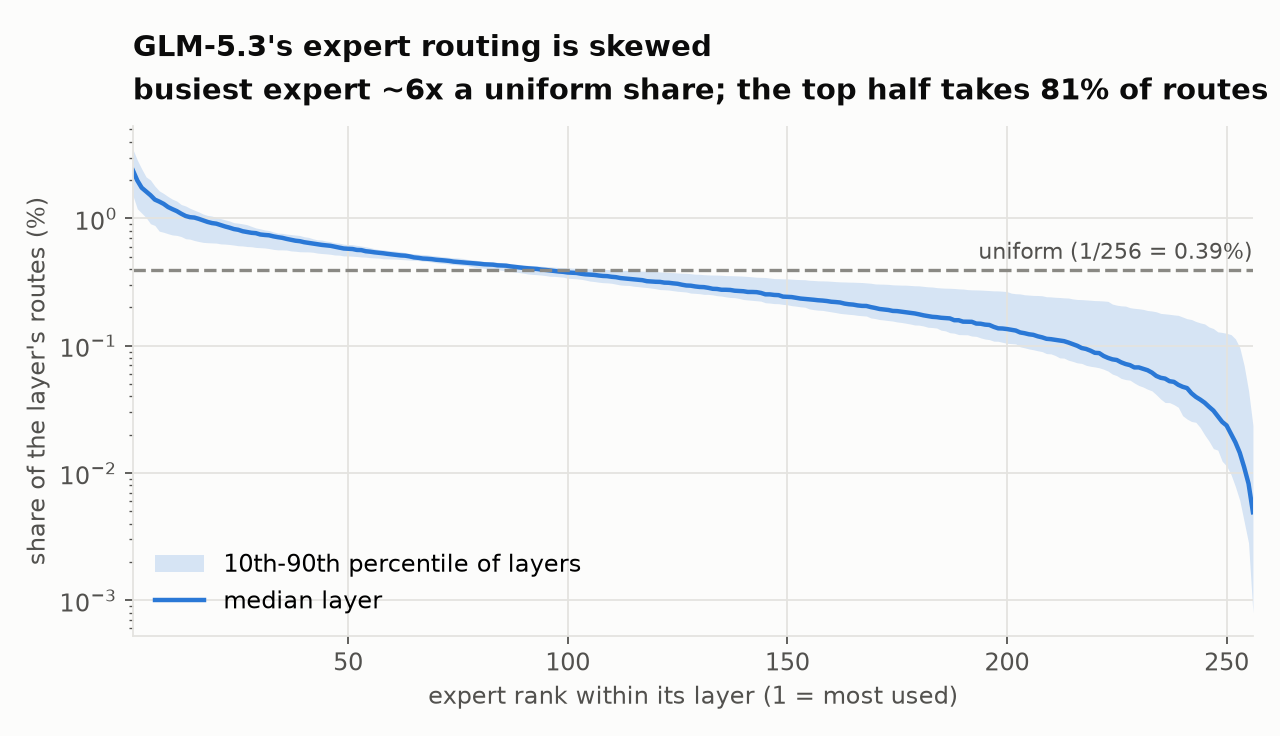
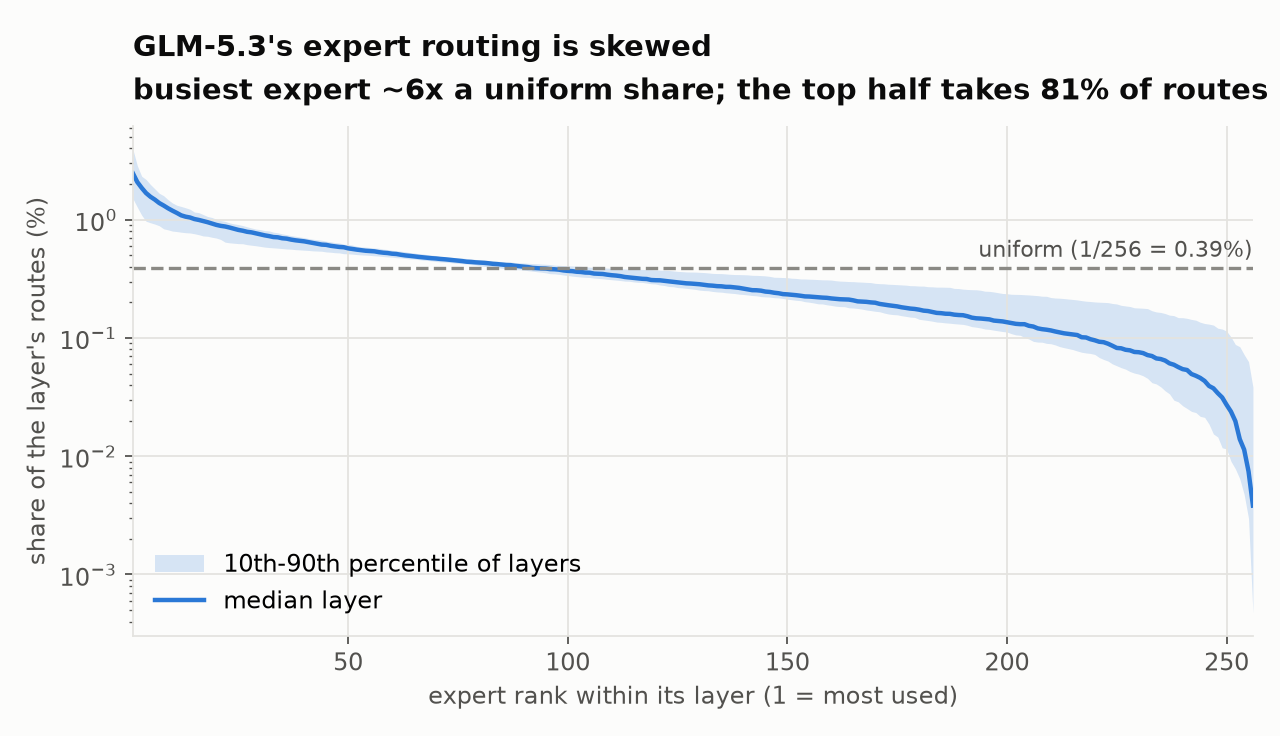
GLM-5.3: re-measured on MiMo's agentic tasks, GLM vs MiMo breakdown
Both models now measured on the same agentic coding tasks and harness:
GLM 28.1 ms/step (~124 tok/s) vs MiMo 16.9 (~201) at matched acceptance.
The old greedy bench looped (6.5-7 accepted/step); its absolute numbers are
dropped and its per-change deltas labelled as greedy-bench measurements.
Routing figures redrawn from the agentic capture; new: the rebuilt profile,
GLM vs MiMo per-step breakdown (the MoE costs the same), DCP off at 250K,
the fp8_ds_mla prefix-caching fix, GSM8K pooled over four runs.

diff --git a/glm/README.md b/glm/README.md
@@ -6,17 +6,41 @@ decode step verifies 8 tokens), **400K context**. The ideas are the ones in the
 [main write-up](../README.md); this page is about what was different for GLM and
 what it took. It gets updated as work lands.
 
-| GLM-5.3, c=1, MTP7, 400K | decode step* | tok/s* |
+Both models measured the same way, on the agentic coding tasks MiMo's routing
+profile was built from (see [How it's measured](#how-its-measured)):
+
+| one user, same tasks and harness | decode step* | decode tok/s |
 | --- | ---: | ---: |
-| where this round started | 46.6 ms | ~129 |
-| now | **36.2 ms** | **~166** |
+| **GLM-5.3** W4A16, MTP7, DCP4, 400K | **28.1 ms** | **~124** |
+| MiMo-V2.6 MXFP4, DFlash k=7, 250K | 16.9 ms | ~201 |
 
-\*On a greedy bench at a matched 6 accepted tokens per step (see
-[Measuring it](#measuring-it-acceptance-gets-in-the-way)). Real Claude-Code-style
-traffic at temperature 1 accepts fewer tokens, so its tok/s is lower; the step
-time saving carries over.
+\*Fitted at a matched 3.5 accepted tokens per step and 8K context; both models
+accept 3.4-3.5 on these tasks.
 
-![decode step across the changes](figs/glm-ladder.png)
+## How it's measured
+
+Everything is measured on the same data for both models: the 16 agentic coding
+tasks (22 turns, a few hundred requests) that MiMo's routing profile was
+captured from. They're replayed through that capture's agent loop, with the
+same system prompt, tools and chat endpoint, at the models' own sampling
+(temperature 1.0, top_p 0.95). Each request's decode time, verify steps and
+accepted tokens come from the server's own counters, and step time is fitted
+against accepted tokens and context so the two models compare at the same
+point. Requests that loop to the output cap are dropped (MiMo 3 of 46, GLM
+none).
+
+**Earlier GLM numbers used a different bench, and its absolute numbers were
+wrong.** It was greedy decoding on raw completion prompts, and that text loops:
+MTP accepted 6.5-7 of 8 drafts per step, against 3.5 on the agentic tasks and
+the 2-3 you see serving Claude Code. It also routed differently: the hot set
+served 74% of its expert reads against 90% on real traffic. So its step times
+(46.6 -> 36.2 ms, "~166 tok/s") don't describe real serving, and neither did
+the "step time rises ~1.8 ms per accepted token" effect it showed. On the
+agentic tasks that effect is gone (+0.1 ms per token). Each change was still
+A/B'd against its own control on that bench, so the deltas below are real but
+were measured on looping text; they're marked *(greedy bench)*.
+
+![each change, on the greedy bench](figs/glm-ladder.png)
 
 ## How GLM differs from MiMo
 
@@ -30,17 +54,42 @@ time saving carries over.
   picks 2,048 past tokens per query and only those are read. At 400K context the
   KV cache is ~20 GiB per GPU when every GPU holds a full copy.
 - **A shared expert** runs alongside the routed ones, in bf16.
+- **A sequential drafter.** MTP7 runs its draft layer seven times, one token
+  after another; MiMo's DFlash drafts all seven in one pass.
+
+## Why MiMo is faster, on the same tasks
+
+![GLM vs MiMo per decode step](figs/glm-vs-mimo.png)
+
+Profiled on the agentic tasks, four windows per model. **The MoE costs the same
+on both** (8.2 vs 8.9 ms per step): GLM's experts are larger, but it touches
+about as many of them per step (~650 hot and ~130 cold per GPU on both), and
+at equal expert counts its INT4 kernel is within 2-7% of MiMo's MXFP4 one.
+GLM's extra ~9 ms is everything around the MoE:
+- **the drafter, +2.8 ms**: seven sequential passes against one, each reading
+  the 155K-token output layer;
+- **dense GEMMs, +2.1 ms**: GLM's MLA and indexer projections and its shared
+  expert, all bf16;
+- **small unfused kernels, +1.8 ms**: hundreds per step from the MLA, sparse
+  attention and DCP code paths (zero-fills, concats, casts, DCP's attention
+  merge), where MiMo has three fused norms;
+- **DCP's collectives, +1.7 ms**, and **attention plus the indexer, +1.4 ms**.
+
+Roughly half of that is structural (the drafter, the extra attention
+machinery); the other half is kernels running below what the hardware allows,
+which is where the work goes next.
 
 ## 1. Routing, and how much the HBM budget buys
 
-GLM's routing is skewed but flatter than you might hope: the busiest expert in a
-layer gets ~6x a uniform share, and the top half of experts takes ~81% of routes.
+Routing statistics are from the agentic tasks, ranked on some requests and
+measured on held-out ones. GLM's routing is skewed but flatter than you might
+hope: the busiest expert in a layer gets ~6x a uniform share, and the top half
+of experts takes ~81% of routes.
 
 ![expert skew](figs/glm-expert-skew.png)
 
-Ranked on some requests and measured on others, keeping each layer's most-used
-experts in HBM serves 77% of routes at the starting budget and 91% once the
-budget grows (section 4):
+Keeping each layer's most-used experts in HBM serves 72% of routes at the
+starting budget and 86% once DCP4 grows it (section 4):
 
 ![HBM coverage](figs/glm-hbm-coverage.png)
 
@@ -61,9 +110,9 @@ came straight from this:
 ## 2. Keeping the four GPUs in step: replicas
 
 After each MoE layer the four GPUs sync, so every layer costs as much as its
-busiest GPU. With GLM's cold load that was the biggest single problem: **~8 ms of
-every step was GPUs waiting** for the one with the most cold experts, and which
-GPU that was changed from layer to layer.
+busiest GPU, and which GPU is busiest changes from layer to layer. On held-out
+agentic steps, the busiest GPU reads 93 more cold experts per step than the
+average one.
 
 The fix is the same as for MiMo: keep spare copies of busy cold experts in
 another GPU's Grace memory, and at each step send an active cold expert to
@@ -75,9 +124,25 @@ work), not a real shortage.
 
 ![replicas](figs/glm-replicas.png)
 
-On held-out steps the busiest GPU's cold load drops from 128 above the average
-to 49 above it. Measured: **-4.1 ms per step.** Going from 985 to 2,000 copies
-only buys another ~0.5 ms, so we stayed at 985.
+With up to 2,000 copies per GPU the busiest GPU's excess drops from 93 to 39
+cold experts per step. Measured: **-4.1 ms per step** *(greedy bench, 985
+copies)*.
+
+### The hot set, rebuilt from the agentic tasks
+
+The first profile was ranked on Claude-Code traffic and listed 2,496 hot
+experts per GPU. Under DCP4 (section 4) a GPU holds ~3,210, and the planner
+filled the other ~715 **in expert-id order**, with no frequency information at
+all. The profile is now built from the same agentic tasks as MiMo's, ranking
+all 3,239 slots by frequency (the planner only ever trims the least-used), with
+up to 2,000 replicas per GPU. Replayed offline at the runtime budget, it cuts
+the busiest GPU's cold reads by ~20%, and by as much on the old profile's own
+Claude-Code traffic as on the agentic tasks, so the gain is from ranking the
+whole budget rather than from fitting the workload:
+
+![served vs agentic profile](figs/glm-profiles.png)
+
+Measured: **-0.94 ± 0.12 ms per step** *(greedy bench)*.
 
 ## 3. One kernel for both tiers, now for INT4
 
@@ -91,10 +156,12 @@ it was just the weight format:
   scales a thread needs in one 32-bit word.
 
 The kernel is more accurate than Marlin against an fp32 reference (error 3e-3 vs
-6-7e-3 of the row max). **On its own it bought nothing end to end**: it does
+6-7e-3 of the row max), and at equal expert counts it runs within 2-7% of the
+MXFP4 kernel MiMo uses. **On its own it bought nothing end to end**: it does
 ~2 ms less MoE work per step, but that time just became waiting on the slowest
 GPU. Once replicas were on, the kernel's other job paid off: it picks each
-replica's GPU by predicted *time* rather than expert count. **-1.4 ms more.**
+replica's GPU by predicted *time* rather than expert count. **-1.4 ms more**
+*(greedy bench)*.
 
 ## 4. DCP4: sharding the KV cache across the GPUs
 
@@ -107,16 +174,38 @@ parallelism (DCP4) each GPU keeps a quarter of it. Two things improve:
 
 The catch is three small collectives per layer (gather queries, gather softmax
 sums, scatter outputs), each ~7-12 µs through NCCL. They cost ~2.3 ms per step and
-ate most of the gain: **-1.1 ms net** at first.
+ate most of the gain: **-1.1 ms net** at first *(greedy bench)*.
 
 vLLM already has a fast path for small all-reduces: each GPU reads the others'
 buffers directly over NVLink, between two cheap barriers, in one kernel. The same
 trick works for a gather (copy instead of add) and a reduce-scatter (add only your
 own slice), reusing that path's shared buffers and CUDA-graph bookkeeping. A query
-gather dropped from 13.8 to 6.7 µs, and end to end the step got **3.1 ms faster**,
-more than the collectives' own kernel time: NCCL was also leaving gaps between
-kernels that are now gone. (vLLM's all-to-all variant of the combine measured
-within noise; NCCL's symmetric-memory kernels broke CUDA graph capture here.)
+gather dropped from 13.8 to 6.7 µs, and end to end the step got **3.1 ms faster**
+*(greedy bench)*, more than the collectives' own kernel time: NCCL was also
+leaving gaps between kernels that are now gone. (vLLM's all-to-all variant of the
+combine measured within noise; NCCL's symmetric-memory kernels broke CUDA graph
+capture here.)
+
+**On the agentic tasks, DCP4 still wins, even against a shorter context.** With
+DCP off at MiMo's 250K context, a step takes 28.8 ms against DCP4's 27.7-28.1
+at 400K (same tasks and point; prefix caching doesn't change decode, as the
+next section shows). The full MLA cache on every GPU
+leaves room for only ~2,815 hot experts against ~3,208, and the head padding
+comes back.
+
+### Prefix caching under DCP4
+
+Claude Code resends the whole conversation every turn, so prefix caching is not
+optional. Under DCP4 it crashed on the first cache hit. Sparse attention falls
+back to dense attention when the whole prompt fits in the indexer's 2,048
+tokens, and the dense path reads the cached context back through gathers that
+don't understand GLM's KV format (fp8_ds_mla: 512 fp8 values, four fp32 scales
+and 64 bf16 rope values per 656-byte entry). With DCP that failed a dtype check.
+**Without DCP it silently read garbage** (relative error ~321, with NaNs), so
+every prefix hit on a short prompt attended over corrupted context. The fix
+copies the raw entries and decodes them properly. On the agentic tasks with
+prefix caching on: no errors, a 78% cache hit rate, total prefill time 70 s
+instead of 298 s, and decode unchanged.
 
 ## 5. The drafter was running uncaptured
 
@@ -124,62 +213,41 @@ MTP drafts in 7 passes: one over 8 tokens, then six over a single token each.
 vLLM only builds a CUDA graph for the single-token passes if the capture sizes
 include a size that fits one user, and ours listed only 8. So six of the seven
 draft passes ran as ~430 separate kernel launches every step, silently. Capturing
-size 1 as well fixed it: **-0.65 ms.** (The profiler had suggested ~5 ms; the CPU
-was mostly launching ahead of the GPU anyway.)
+size 1 as well fixed it: **-0.65 ms** *(greedy bench)*. (The profiler had
+suggested ~5 ms; the CPU was mostly launching ahead of the GPU anyway.)
 
-## Measuring it: acceptance gets in the way
+## What's left
 
-Each configuration is measured on the same prompts with greedy decoding, arms
-alternated across two nodes. Two things make that harder than it sounds:
-- greedy output isn't reproducible here, so the number of draft tokens accepted
-  per step varies run to run;
-- **step time rises with the number of accepted tokens**, even though the verify
-  is always 8 tokens: a step whose 7 drafts are all accepted takes ~3.7 ms longer
-  than one where none are. Logging every step shows it follows the *text* more
-  than the step: stretches of predictable text accept well and also verify
-  slower, most likely because 8 coherent tokens touch more distinct experts
-  (and more cold ones) than a batch that's rejected early.
-
-So every comparison is a fit at matched acceptance:
-
-![A/B runs](figs/glm-ab-runs.png)
-
-## Where a step goes now
-
-![step breakdown](figs/glm-step-breakdown.png)
-
-The two captures happened to accept very different numbers of draft tokens (2.3
-vs 6.6 per step), and a step whose drafts are mostly accepted is the slower kind
-(see above), so the lower bar is the harder case and still comes in at 39.9 ms
-against 57.2 (profiled; the profiler adds a few ms). The all-reduces, which are
-mostly GPUs waiting on each other, fell from 11.8 to 3.6 ms, and the idle gaps
-from 5.5 to 2.3. What's left, roughly in order:
-- **the MoE itself** is now mostly the cold experts' C2C reads plus the hot tier;
-- **dense GEMMs** at 8 tokens run at 40-78% of the HBM read floor, ~1.5 ms to gain:
+From the breakdown above, the headroom is outside the MoE:
+- **the 8-token dense GEMMs** run at 40-78% of the HBM read floor, ~1.5 ms to
+  gain. A first bf16 weight-streaming kernel is correct but slower than cuBLAS;
 
   ![GEMM efficiency](figs/glm-gemm.png)
 
-- **DCP's collectives**, now ~1.6 ms;
-- **the drafter**, ~3.8 ms; its biggest piece is reading the 155K-token output
-  layer seven times, which is already at 93% of bandwidth;
-- the acceptance-dependent cost above, which comes with the text rather than
-  with any one kernel.
+- **the small unfused kernels**, ~2.3 ms of zero-fills, concats, casts and
+  merges that a few fused kernels could replace;
+- **the drafter**, 3.6 ms, mostly per-pass fixed costs: its biggest piece,
+  reading the 155K-token output layer seven times, is already at 93% of
+  bandwidth;
+- **DCP's collectives and the attention kernels**.
 
-## Being worked on
-
-- A bf16 kernel for the 8-token dense GEMMs. The production kernels take ~5.8 ms
-  per step against a ~3 ms read floor. A first weight-streaming version is
-  correct but slower than cuBLAS; it's being profiled.
+All of it keeps the math identical: no further quantization, no change to the
+drafter or to which experts run.
 
 ## Accuracy
 
-GSM8K, the same 1,000 questions on both setups: **91.2% now against 91.4%
-before**, a difference of -0.2 points (95% interval -1.4 to +1.0). The two get
-different questions right about equally often (18 vs 20), which is what noise
-looks like.
+GSM8K, four full runs of each setup pooled over the 1,000 questions they share:
+**91.0% now against 91.4% before**, a difference of -0.3 points (95% interval
+-0.9 to +0.3). Greedy decoding isn't reproducible here: the old setup changes
+~43 answers against itself from run to run, so a single paired run can't
+resolve differences below ~1.3 points. No detectable regression.
 
 ## Where the data is
 
-Raw data, scripts and every run: the worklog's
-`experiments/2026-09-27-glm53-mtp7-profile` (figures from `plot_glm.py`,
-A/B fits from `fit_ab.py`).
+Raw data, scripts and every run are in the worklog:
+- `experiments/2026-09-28-agentic-decode-bench`: the agentic-task harness, both
+  models' runs and profiles, DCP off, and the prefix-caching fix;
+- `experiments/2026-09-28-glm53-route-cap`: the agentic-task routing capture and
+  the rebuilt profile;
+- `experiments/2026-09-27-glm53-mtp7-profile`: the greedy-bench A/Bs, GSM8K, and
+  the figures (`plot_glm.py`).

diff --git a/README.md b/README.md
@@ -15,8 +15,11 @@ HBM, on one 4x GH200 node with vLLM:
 
 Both at batch one with speculative decoding. GSM8K doesn't move.
 
-**GLM-5.3** is in progress on the same node, one user, MTP7, 400K context:
-[glm/README.md](glm/README.md) tracks what was different and what it took.
+**GLM-5.3** is in progress on the same node, one user, MTP7, 400K context. On
+the same agentic coding tasks and harness as MiMo it decodes at 28.1 ms/step
+(~124 tok/s) against MiMo's 16.9 (~201), at matched acceptance:
+[glm/README.md](glm/README.md) tracks what was different, what it took, and
+where the gap is.
 
 ## The hardware
 
